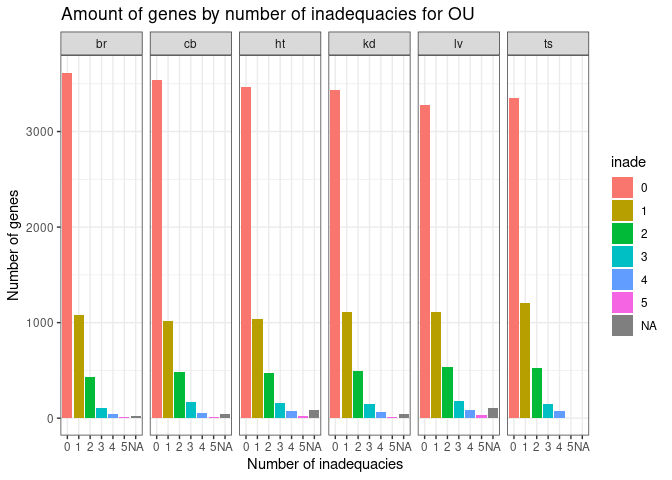
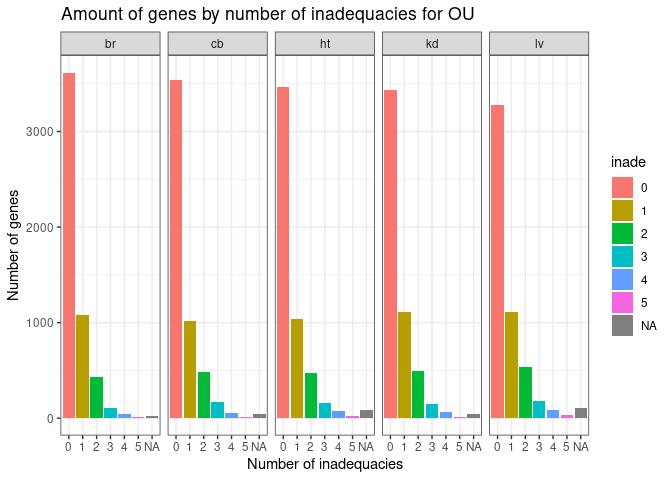
Re-knitting and taking error into account

Changed region(s): [[0.0938, 0.0625, 0.875, 0.9375], [0.3125, 0.0625, 0.4375, 0.125], [0.7188, 0.0625, 0.8125, 0.125]]

diff --git a/Mammal_organs/Analysis.md b/Mammal_organs/Analysis.md
@@ -16,10 +16,12 @@ different lineages (or organs) had 1: Multiple evolutionary optima and
 was an OU model, with the alternative hypothesis being a multi-optima OU
 model.
 
-![](Analysis_files/figure-gfm/unnamed-chunk-2-1.png)<!-- -->
+![](Analysis_files/figure-gfm/unnamed-chunk-2-1.png)<!-- -->![](Analysis_files/figure-gfm/unnamed-chunk-2-2.png)<!-- -->
 
 **Figure 1.** Number of inadequacies per gene per organ. Most genes were
-adequate.
+adequate. A) Adequacy measured using species phylogeny. B) Adequacy
+measured using gene family phylogenies. An issue with testes data caused
+it to be omitted.
 
 Overall, each organ had a similar pattern of inadequacies after full
 analysis. 63% or more of the genes showed no inadequacies in all organs
@@ -31,7 +33,11 @@ multi-optima method may not have been necessary, but testing
 multi-optima OU models would be more conclusive. Furthermore, many (but
 still a minority) of the genes show higher relative fit for a simple BM
 model over OU, suggesting that perhaps even models without optima at all
-may be better fitting for this data set.
+may be better fitting for this data set. Furthermore, comparing overall
+adequacy of data set was only slightly changed by substituting the
+species-level phylogenetic tree for gene-specific phylogenies. This
+caused slight decreases in the proportion of genes with no inadequate
+genes, and small increases across the board.
 
 ## Methods
 
@@ -41,7 +47,8 @@ I first conducted a relative fit analysis via AIC to compare how well
 each of the 3 models (BM, OU, EB) fit the data in a relative sense.
 Next, I performed adequacy analysis using arbutus for the best fit model
 as chosen above. I then conducted the same analysis for using just BM or
-just OU to see how it affected adequacy of the data set.
+just OU to see how it affected adequacy of the data set. Finally, I
+performed the same analysis using gene-family specific phylogenies.
 
 ## Results
 
@@ -75,7 +82,8 @@ set are from C.var and S.asr respectively.
 ![](Analysis_files/figure-gfm/unnamed-chunk-5-1.png)<!-- -->
 
 **Figure 3.** Proportion of inadequacies belonging to each test
-statistic. C.var was responsible for most of the inadequacies.
+statistic for brain data. C.var was responsible for most of the
+inadequacies.
 
 As shown by the plot above, c.var and s.asr account for almost 80% of
 the inadequacies. This means that finding a model that addresses both of
@@ -103,6 +111,81 @@ to best-fit models, suggesting that even when the BM model is the
 best-fit, the OU model is good enough most of the time. Overall this
 shows the importance of the optima and constraint parameters of the OU
 model.
+
+Next I wanted to compare the differences in adequacy trends for the
+different test statistics when comparing usage of a species phylogenetic
+tree to gene-specific phylogenies. Specifically, I wanted to understand
+if gene-specific phylogenetic trees had a higher resolution for any
+trends in data, that species phylogenetic trees did not allow for. It
+was noted for the expression coevolution data between fungi that the
+data was mostly adequate, and I wanted to see if that was because of
+usage of a species-level phylogenetic tree, compared to the comparative
+expression data set, which used a gene-level phylogenetic tree.
+
+``` r
+figure5
+```
+
+![](Analysis_files/figure-gfm/unnamed-chunk-8-1.png)<!-- -->
+
+**Figure 5.** Proportion of inadequacies belonging to each test
+statistic for gene family brain data. Inadequacies seemed to be
+relatively evenly spread between the statistics.
+
+An interesting finding was that for gene-specific phylogenetic trees,
+inadequacies can be attributed to multiple test statistics, and not just
+violations from C.var or S.asr. This may suggest that the different
+phylogenetic topologies that are analyzed when using gene-specific trees
+allow for violations in multiple different ways, rather than in one or
+two. Perhaps more interesting is the fact that these differences in
+attributions of violations lead to very little, if any, difference in
+overall inadequacy of the model for the data set.
+
+One specific part of this figure that may be misleading is that 25% of
+the inadequacies can now be attributed to S.hgt, from 2% when using a
+species phylogenetic tree. However, this may actually be due to higher
+phylogenetic signal allowed when using higher-resolution trees.
+
+``` r
+figure6a
+```
+
+    ## `stat_bin()` using `bins = 30`. Pick better value with `binwidth`.
+
+    ## Warning: Removed 4171 rows containing non-finite values (stat_bin).
+
+![](Analysis_files/figure-gfm/unnamed-chunk-9-1.png)<!-- -->
+
+``` r
+figure6b
+```
+
+![](Analysis_files/figure-gfm/unnamed-chunk-9-2.png)<!-- -->
+
+**Figure 6.** Comparison of S.hgt for brain data between gene family and
+species phylogenetic tree. A) Distribution of p values for S.hgt test
+statistic. Gene family phylogenies show higher number of counts near
+lower end. B) Number of NA vs non-NA values for each data set. Gene
+family trees show lower proportion of values being NA.
+
+``` r
+figure7
+```
+
+![](Analysis_files/figure-gfm/figure7-1.png)<!-- -->
+
+**Figure 7.** Measures of phylogenetic signal for data using gene family
+trees vs species trees. Using the K-statistic, a higher proportion of
+genes were close to the expectations of a BM model for gene family
+phylogenies over species phylogenies. However, more genes showed
+phylogenetic significance for species trees over gene trees.
+
+While using species trees produces more NA values for the S.hgt
+statistic than gene trees, less genes overall are found to have
+phylogenetic significance for gene trees. This may suggest that the
+lower-resolution species trees may be producing false positive signal.
+Alternatively, this may actually just show that using gene phylogenies
+causes data to have more BM-like properties
 
 ## Conclusion
 
